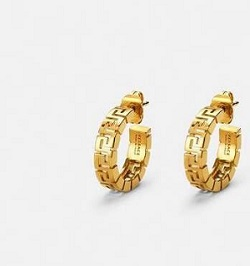
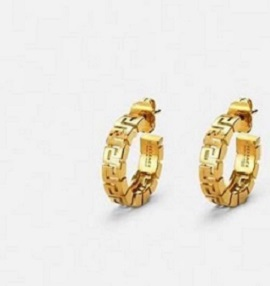
agregué bordes y texto

Changed region(s): [[0.364, 0.3308, 0.616, 0.7519], [0.728, 0.3308, 0.98, 0.7519]]

diff --git a/index.html b/index.html
@@ -67,9 +67,15 @@
             </div>
         </div>
         <section class="_accesorios">
-            <img src="imagen/d1.jpg" alt="Collares">
-            <img src="imagen/d2.jpg" alt="Aros">
-            <img src="imagen/d3.jpg" alt="Sets">
+            <div><img src="imagen/d1.jpg" alt="Collares">
+                <h2>Aros</h2>
+            </div>
+            <div><img src="imagen/d2.jpg" alt="Aros">
+                <h2>Collares</h2>
+            </div>
+            <div><img src="imagen/d3.jpg" alt="Sets">
+                <h2>Pulseras</h2>
+            </div>
         </section>
     </main>
     <footer>

diff --git a/pages/nosotros.html b/pages/nosotros.html
@@ -70,10 +70,10 @@
             width="400" height="250" style="border:0;" allowfullscreen="" loading="lazy"
             referrerpolicy="no-referrer-when-downgrade">
         </iframe>
-        <div>
-            <p class="dire">Donde? Luis Candido Carballo 120</p>
-            <p class="dire">Rosario - Santa Fe</p>
-            <p class="dire">Argentina</p>
+        <div class="dire">
+            <p>Donde? Luis Candido Carballo 120</p>
+            <p>Rosario - Santa Fe</p>
+            <p>Argentina</p>
         </div>
     </section>
     <footer>

diff --git a/css/style.css b/css/style.css
@@ -55,6 +55,8 @@ svg {
   border-color: beige;
   border-style: double;
   padding: 10px;
+  text-align: center;
+  color:rgb(194, 114, 40);
 }
 
 .collares {
@@ -84,8 +86,6 @@ svg {
 }
 
 .encontranos {
-  justify-content: center;
-  align-items: center;
   text-align: center;
   color: rgb(194, 114, 40);
 }
@@ -252,4 +252,9 @@ position: absolute;
 .dire {
   color: rgb(194, 114, 40);
   font-size: 15px;
+  border-color: white;
+  border-style: double ;
+  margin: 0 auto;
+  padding: 2opx;
+  width: 300px;
 }
